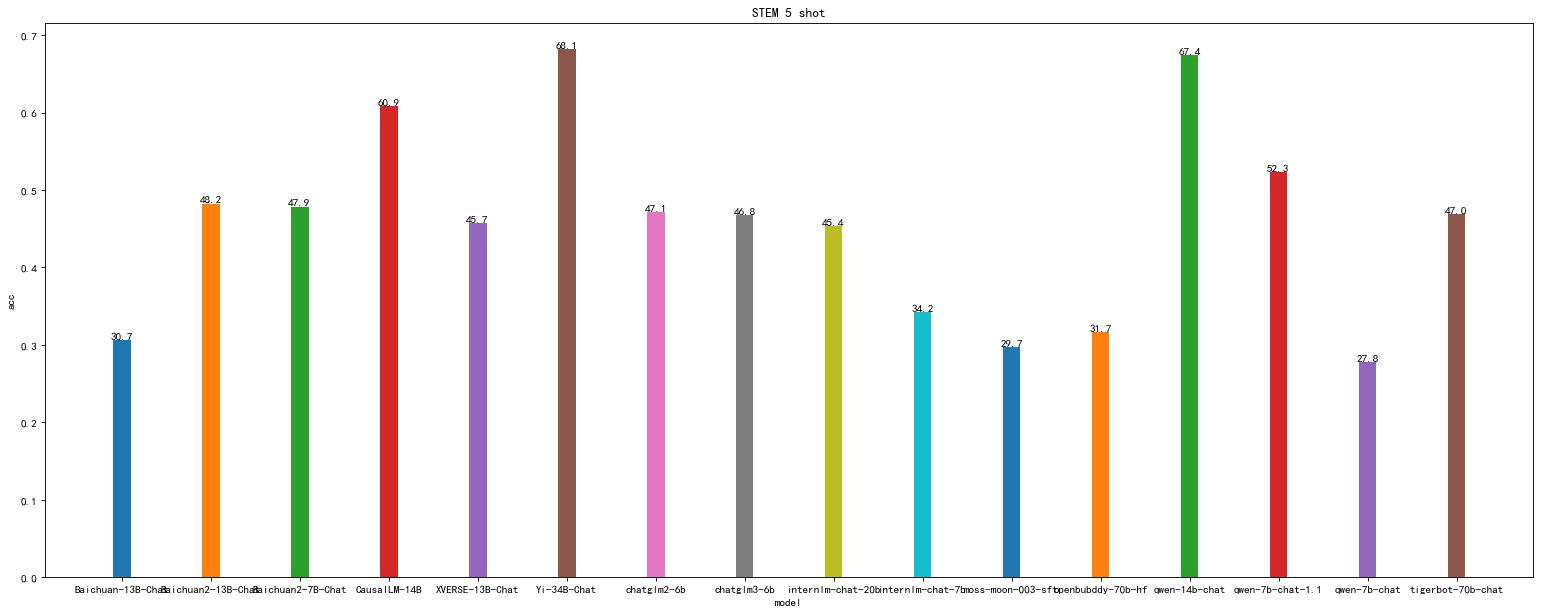
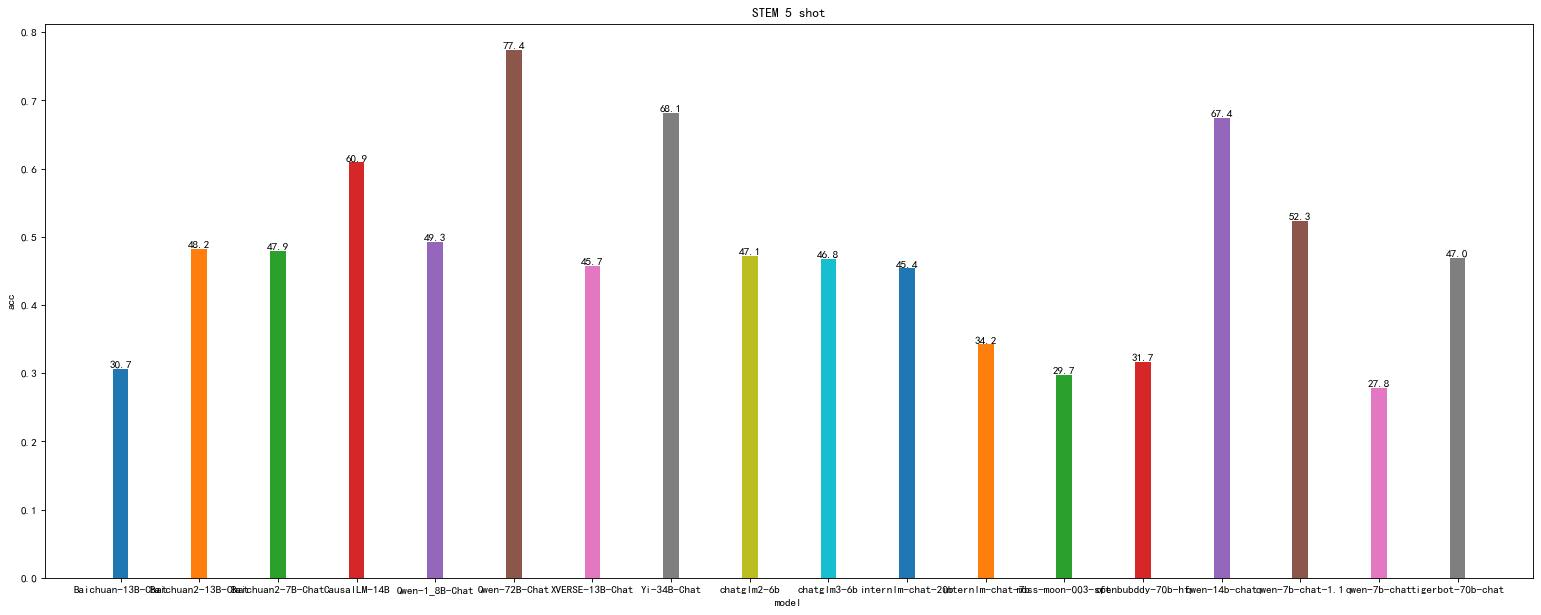
update qwen 1.8b 72b

diff --git a/README.md b/README.md
@@ -91,12 +91,14 @@ python run_struct.py
 
 |                    | Humanities | Other    | STEM     | Social Science | avg      | update     |
 |--------------------|------------|----------|----------|----------------|----------|------------|
+| Qwen-72B-Chat      | 0.869848   | 0.835724 | 0.773870 | 0.907048       | 0.846623 | 2023-12-02 |
 | Yi-34B-Chat        | 0.848586   | 0.798456 | 0.681462 | 0.892582       | 0.805271 | 2023-11-29 |
 | qwen-14b-chat      | 0.768578   | 0.650224 | 0.673924 | 0.847351       | 0.735019 | 2023-11-29 |
 | CausalLM-14B       | 0.691717   | 0.634516 | 0.608986 | 0.765770       | 0.675247 | 2023-11-29 |
 | qwen-7b-chat-1.1   | 0.678034   | 0.540018 | 0.522806 | 0.726223       | 0.616770 | 2023-11-29 |
 | baichuan2-13b-chat | 0.650506   | 0.570232 | 0.482350 | 0.694462       | 0.599387 | 2023-11-29 |
 | XVERSE-13B-Chat    | 0.639340   | 0.570026 | 0.456927 | 0.657328       | 0.580905 | 2023-11-29 |
+| Qwen-1_8B-Chat     | 0.587182   | 0.526344 | 0.492893 | 0.694892       | 0.575328 | 2023-12-02 |
 | baichuan2-7b-chat  | 0.579232   | 0.502889 | 0.478674 | 0.686490       | 0.561821 | 2023-11-29 |
 | chatglm3-6b        | 0.584753   | 0.523970 | 0.467902 | 0.663997       | 0.560155 | 2023-11-29 |
 | chatglm2-6b        | 0.586350   | 0.492239 | 0.471440 | 0.650574       | 0.550151 | 2023-11-29 |
